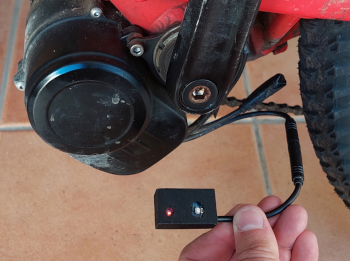
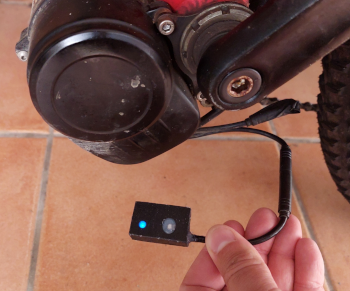
Added new pictures

diff --git a/ebike_wireless_controller.md b/ebike_wireless_controller.md
@@ -79,18 +79,29 @@ See that other than the TSDZ2 display connector wires, there is only need for mo
 There is a red LED on the DC-DC board that is always on, to save that power, I simple removed the resistor R4 nard the LED:<br>
 ![](TSDZ2_wireless_board_small-06.jpg)
 
-Final assembly. The holes are for the RGB LED and the button:<br>
+Assembly. The holes are for the RGB LED and the button:<br>
 ![](TSDZ2_wireless_board_small-08.jpg)
 
 ![](TSDZ2_wireless_board_small-09.jpg)
 
-Finally I did fill be box with translucid silicone and inserted the board - my objective is to have a robust and water prof device. Although not seen on the image, after I put the box cover and I did fully cover the holes with the silicone and it works very well to see the LED light and also to be able to click on the button as the silicone is flexible:<br>
-![](TSDZ2_wireless_board_small-10.jpg)
-
 Download here the files for 3D print the box:
-* [TSDZ2_wireless_small_box.amf](TSDZ2_wireless_small_box.amf)
-* [TSDZ2_wireless_small_box_cover.amf](TSDZ2_wireless_small_box_cover.amf)
+* [TSDZ2_wireless_small_box.amf](https://github.com/OpenSourceEBike/OpenSourceEBike.github.io/raw/main/TSDZ2_wireless_small_box.amf)
+* [TSDZ2_wireless_small_box_cover.amf](https://github.com/OpenSourceEBike/OpenSourceEBike.github.io/raw/main/TSDZ2_wireless_small_box_cover.amf)
 
 3 - **Flash firmware on the nrf52840 board** - see the page: [How to Flash the Wireless Remote and Motor Controller Firmware](firmware.md)
 
 4 - **Test** - when the board is powered up and running the firmware, you should see the "TSDZ2" Bluetooth device on your mobile phone.
+
+5 - **Making water prof and install on EBike**
+
+I did fill be box with translucid silicone and inserted the board - my objective is to have a robust and water prof device:<br>
+![](TSDZ2_wireless_board_small-10.jpg)
+
+After 24 hours waiting for silicone to dry. I did fully cover the holes with the silicone and it works very well to see the LED light and also to be able to click on the button as the silicone is flexible:<br>
+![](TSDZ2_wireless_board_small-11.jpg)
+
+Checking to see if it still works:<br>
+![](TSDZ2_wireless_board_small-12.jpg)
+
+Final instalation on the frame of my EBike:<br>
+![](TSDZ2_wireless_board_small-13.jpg)

diff --git a/ebike_wireless_controller_big.md b/ebike_wireless_controller_big.md
@@ -25,6 +25,6 @@ And inside of a 3D printed box. Note that I used a small zip tie to block the ca
 ![](TSDZ2-wireless-board-08.jpg)
 
 Download here the files for 3D print the box:
-* [TSDZ2_wireless_box.amf](TSDZ2_wireless_box.amf)
-* [TSDZ2_wireless_box_cover.amf](TSDZ2_wireless_box_cover.amf)
+* [TSDZ2_wireless_box.amf](https://github.com/OpenSourceEBike/OpenSourceEBike.github.io/raw/main/TSDZ2_wireless_box.amf)
+* [TSDZ2_wireless_box_cover.amf](https://github.com/OpenSourceEBike/OpenSourceEBike.github.io/raw/main/TSDZ2_wireless_box_cover.amf)
 
